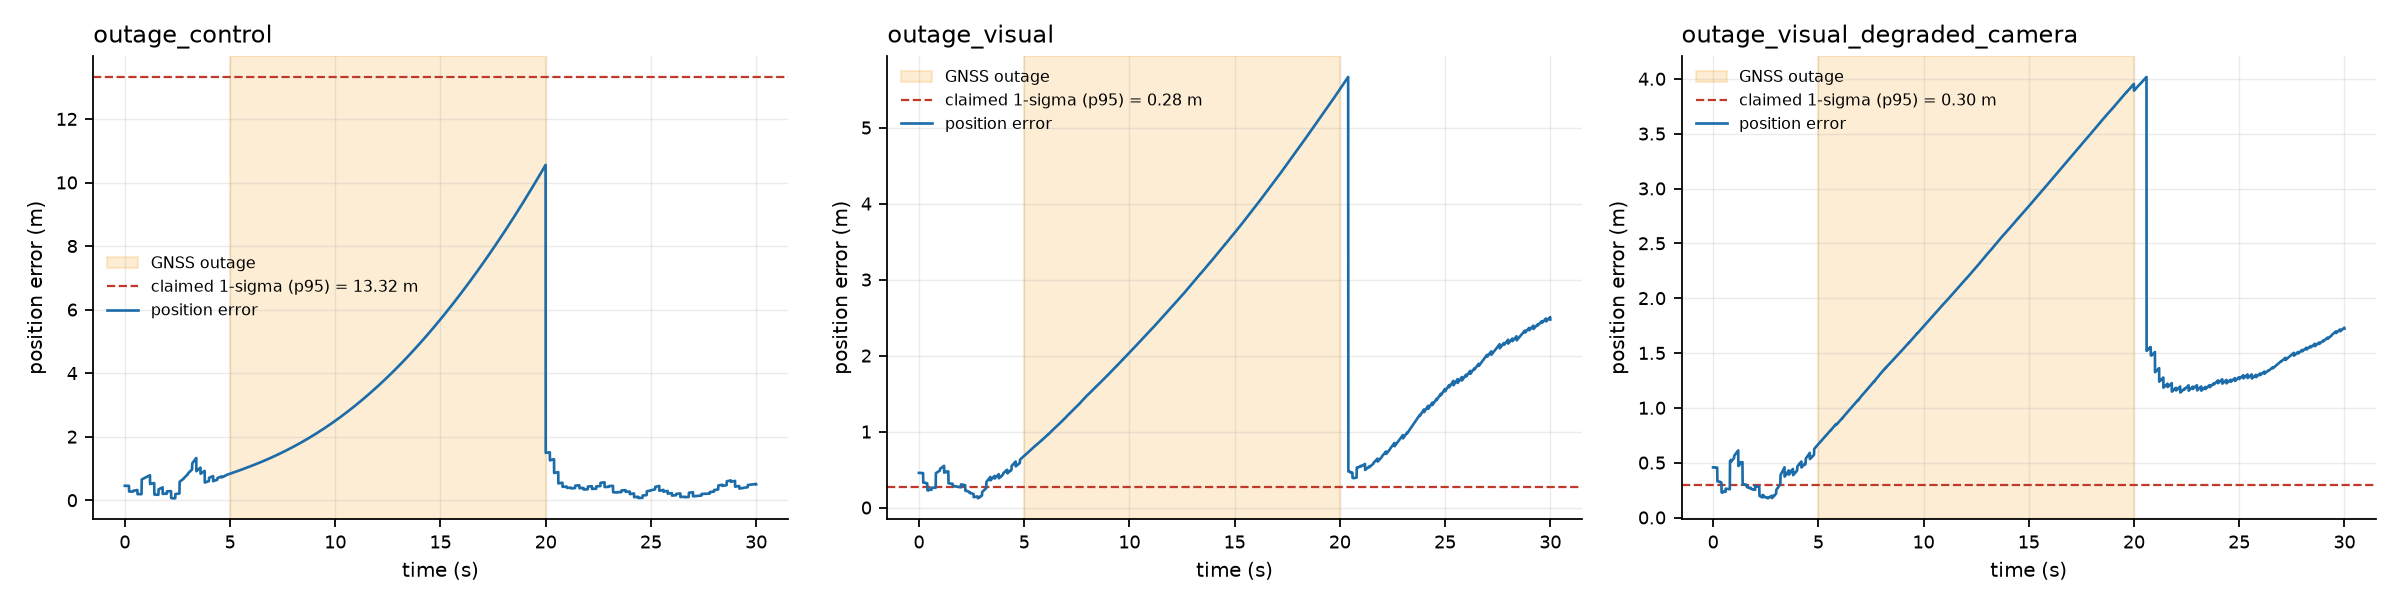
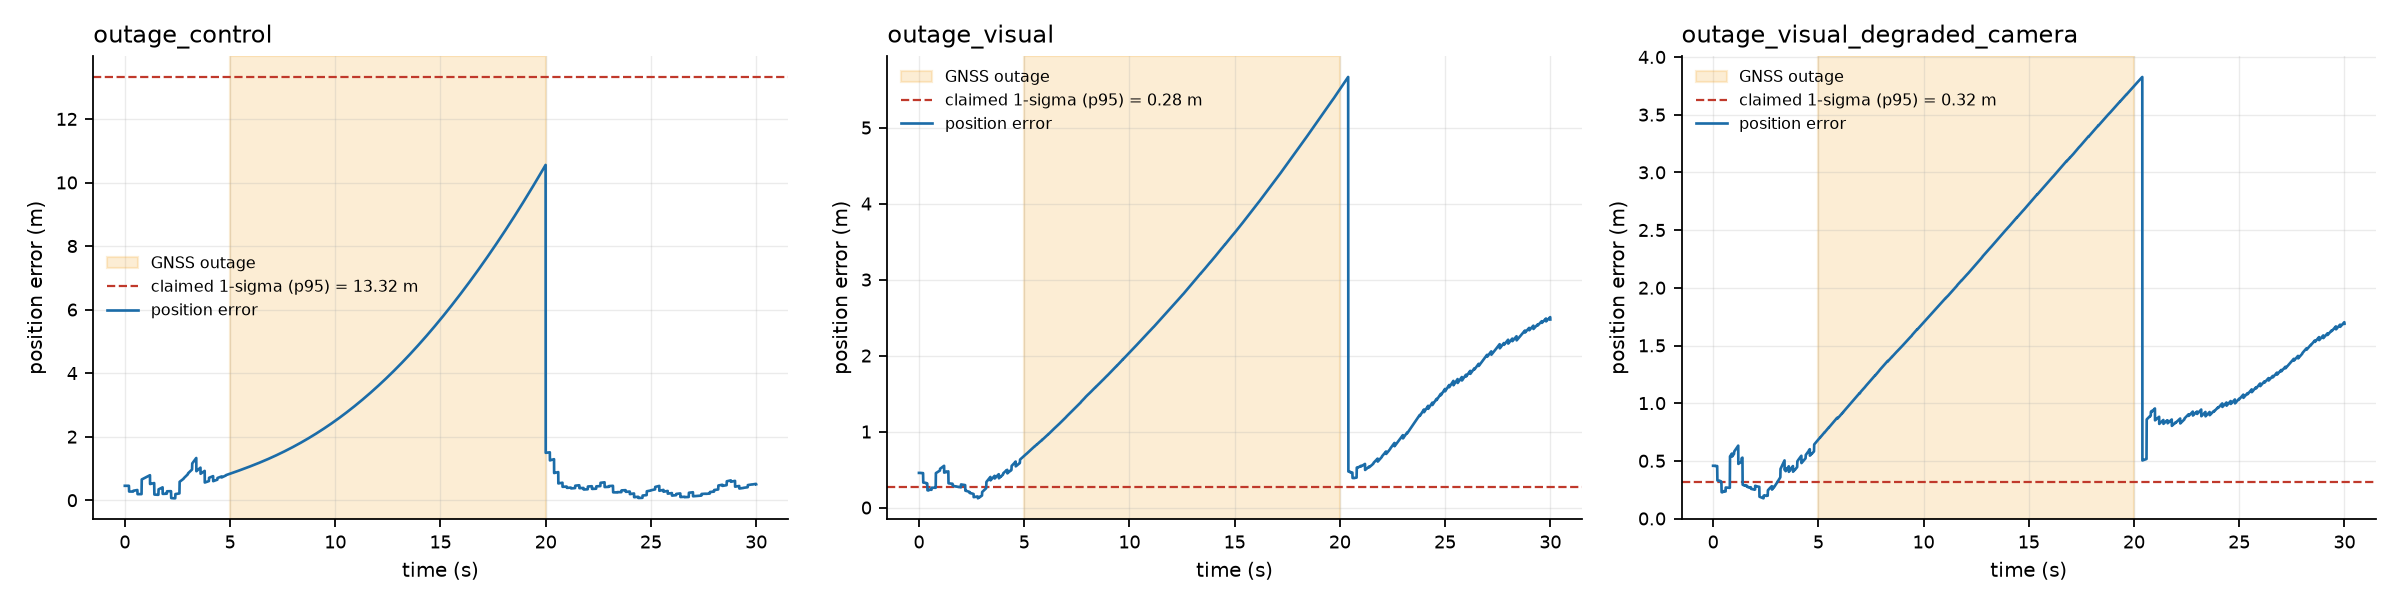
fix(figures): regenerate the committed PNGs, which plotted a config key the loader ignored
The four committed figures were last rendered at cc998d1. The
outage_visual_degraded_camera case changed after that, so the images and the
tables beside them disagreed: the images showed ATE 2.005 m, NEES 264.8 and
16.7% coverage, while README.md and docs/index.html showed 1.872 m, 216.6 and
18.5%.

Replaying the benchmark at each commit since cc998d1 identifies the cause. The
seed override added in c847bf9 also corrected a typo in configs/benchmark.yaml:
the case set camera_drop.fraction, but CameraDropConfig names that field
drop_fraction. The misspelled key was never recognised, so the dataclass
default applied and the case ran with 20% of camera frames dropped in 2 s
bursts rather than the 30% in 1 s bursts it intends. Fixing the key changed the
measurement, not the estimator.

The README table was updated when that number changed; the figures were not, and
nothing in CI compares them, so the drift was invisible until this audit. The
figures are regenerated here and CONTRIBUTING.md now states that any change to a
published number must regenerate them in the same commit, and explains why a
byte-comparison gate would be a false signal on a different Matplotlib build.

The CHANGELOG no longer claims the seed commit left the benchmark bit-identical.
It did not, for this case, and that sentence was the reason the drift was hard to
see.

diff --git a/CONTRIBUTING.md b/CONTRIBUTING.md
@@ -85,6 +85,7 @@ audit.
 python scripts/run_benchmark.py --out results/benchmark.json   # ~40 s, 7 cases
 python scripts/seed_sweep.py --seeds 10 --markdown             # sensor noise
 python scripts/scene_sweep.py --seeds 8  --markdown            # trajectory
+python scripts/make_figures.py                                 # docs/figures/*.png
 python scripts/check_doc_tables.py --results results/benchmark.json
 ```
 
@@ -95,6 +96,14 @@ reproducible too, and CI checks them at three seeds.
 `results/` is gitignored. The numbers in the docs are verified against a fresh
 run rather than committed, so a stale artifact can never be mistaken for
 evidence.
+
+The PNGs under `docs/figures/` are the exception: they are committed, so they
+must be regenerated with `scripts/make_figures.py` in the same change that
+alters any published number, or they will contradict the tables beside them.
+Nothing checks this automatically, because pixel output depends on the
+Matplotlib build and a byte comparison would fail on a different machine for
+reasons that have nothing to do with the data. Compare the underlying
+`results/benchmark.json` instead, which CI does verify.
 
 ## Commits and pull requests
 

diff --git a/CHANGELOG.md b/CHANGELOG.md
@@ -23,6 +23,12 @@ this project uses [semantic versioning](https://semver.org/).
   the annotation was wrong.
 - Four `pytest.raises(match=...)` patterns in `tests/test_config.py` contained
   unescaped `.`, so `dataset.kind` also matched `datasetXkind`.
+- The `outage_visual_degraded_camera` case specified `camera_drop.fraction`, but
+  `CameraDropConfig` names that field `drop_fraction`. The key was not
+  recognised and the dataclass default was used instead, so the case ran with
+  20% of camera frames dropped in 2 s bursts instead of the 30% in 1 s bursts the
+  case intends. The benchmark config now sets `drop_fraction`, and the case's
+  published numbers are those of the scenario it claims to measure.
 
 ### Security
 
@@ -136,9 +142,8 @@ this project uses [semantic versioning](https://semver.org/).
 
 ### Breaking
 
-- None. No public API changed, no published number changed, and the benchmark
-  output is bit-identical to the previous release once the new `scene_seed`
-  provenance key is accounted for.
+- None. No public API changed. One published number changed: see the
+  `outage_visual_degraded_camera` correction under Fixed.
 
 ## [0.1.0] and earlier
 
